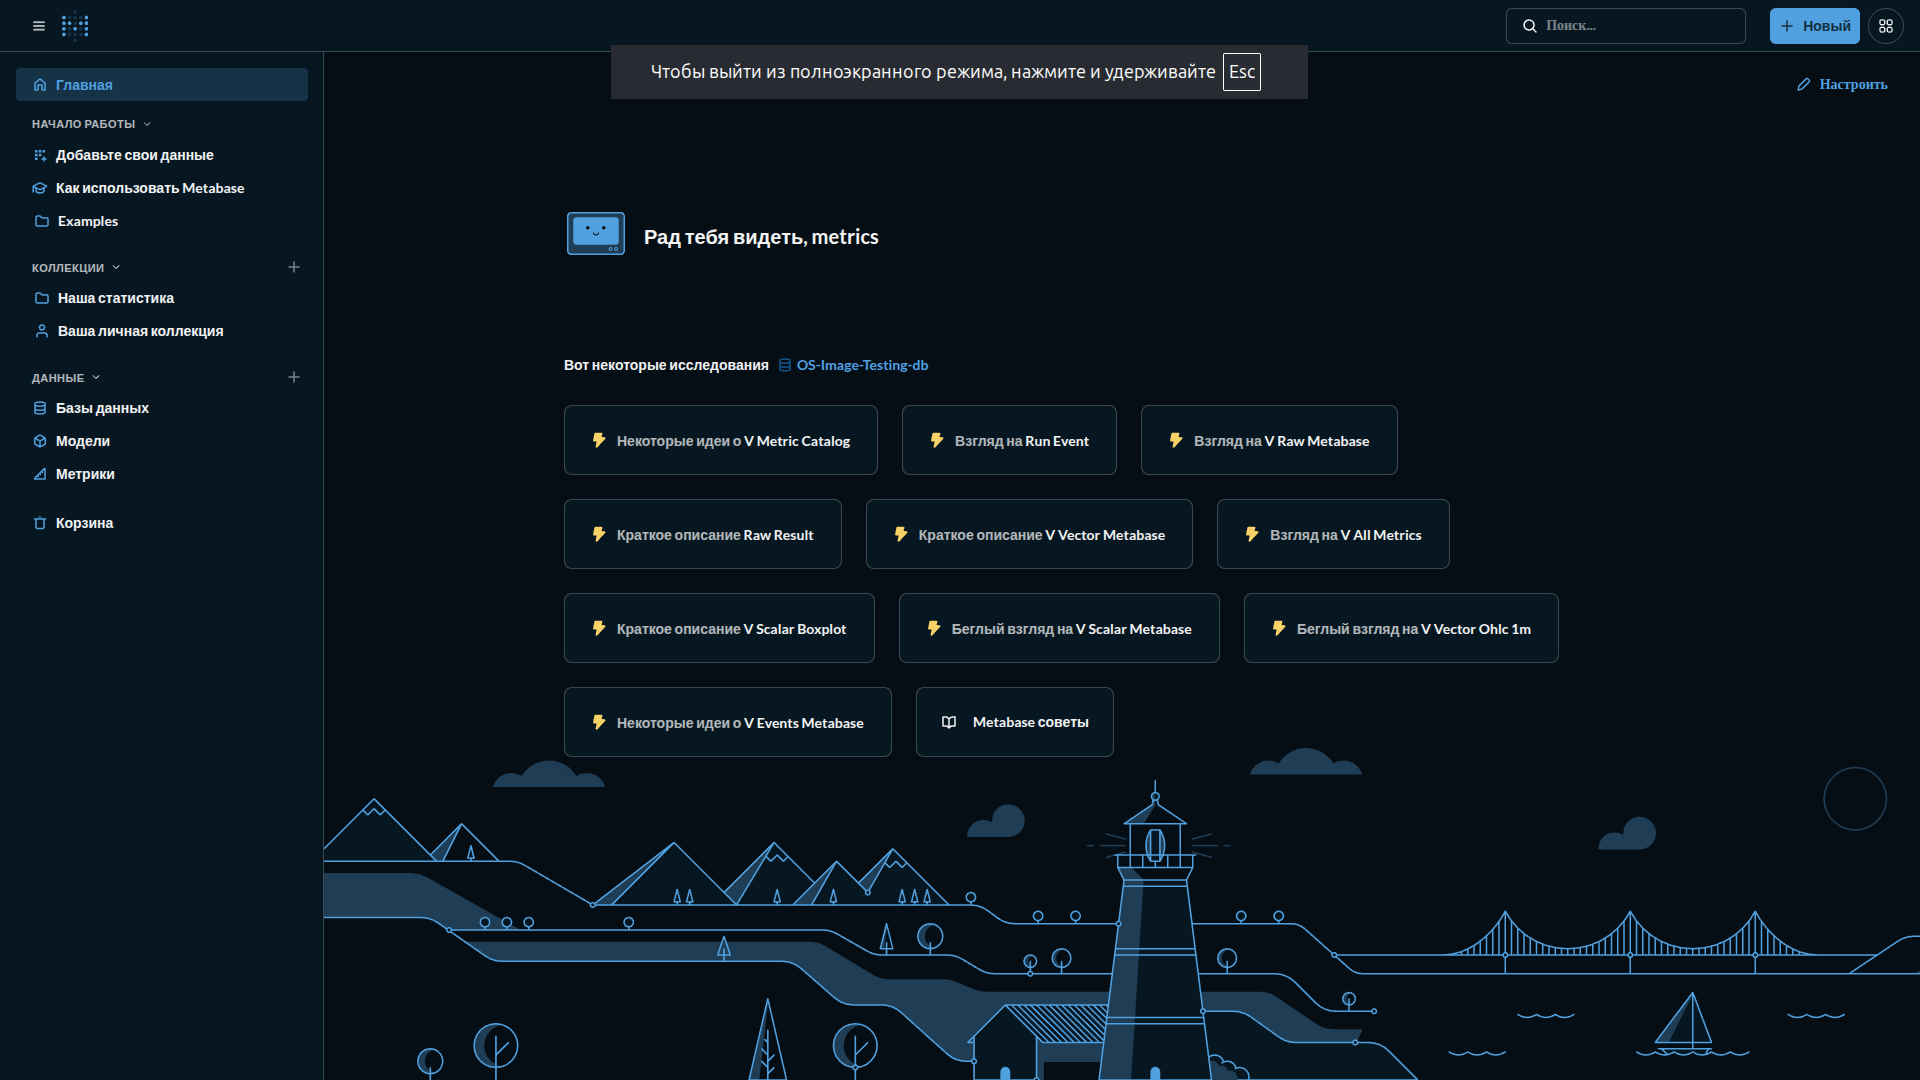
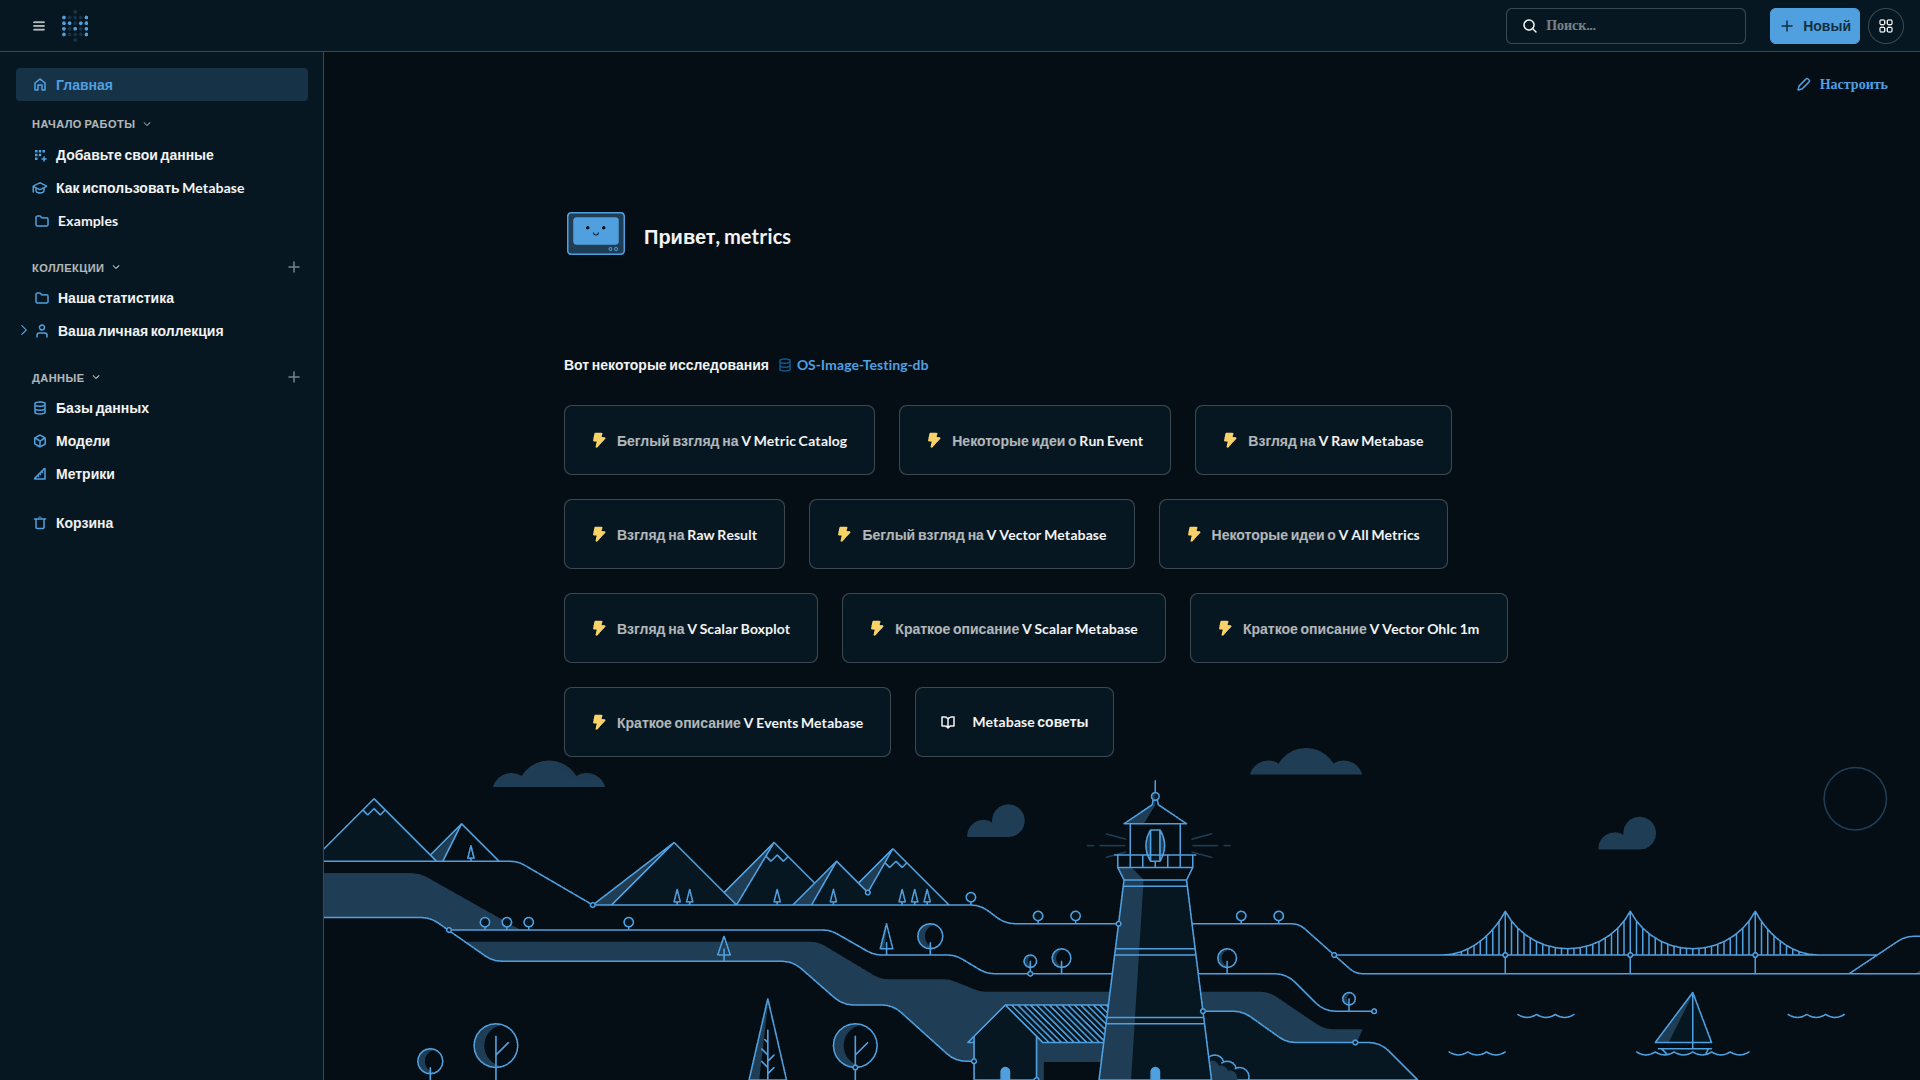
docs: metabase dashboards guide improved

diff --git a/docs/guides/metabase-dashboard-creating-guide.md b/docs/guides/metabase-dashboard-creating-guide.md
@@ -1,6 +1,7 @@
 # Создание дашбордов
 
-После поднятия базы данных контейнеров для metabase для создания дашбордов необходимо:
+Отображение данных в Metabase происходит на **дашбордах** в виде размещенных на них **карточках**.
+После поднятия базы данных и контейнеров для metabase для создания дашбордов необходимо:
 
 - Зарегистрироваться или авторизироваться в metabase (локальная учётная запись);
 - Создать запросы для карточек к базе данных и настроить их визуализацию;
@@ -13,7 +14,7 @@
 При первом открытии metabase в браузере (по умолчанию, `localhost:3000`) открывается окно начала работы.
 ![Начальное окно](../images/metabase-start-window.png)
 
-Для продолжения работы требуется нажать кнопку "Начнем". Дополнительные сведения доступны в [документации Metabase](https://www.metabase.com/docs/v0.59/configuring-metabase/setting-up-metabase.html).
+Для продолжения работы требуется нажать кнопку `Начнем`. Дополнительные сведения доступны в [документации Metabase](https://www.metabase.com/docs/v0.59/configuring-metabase/setting-up-metabase.html).
 
 Далее необходимо настроить:
 - Данные пользователя metabase. Для примера, создадим пользователя metrics и компанию os-image-testing.
@@ -63,9 +64,9 @@
 **Настройка переменных в запросе**
 
 - При создании запроса с переменными для фильтрации указывайте переменные как специальный тип переменных metabase - `фильтр поля`. Это позволяет metabase определять значения для фильтрации по уникальным именам в базе.
-- Для этого в тексте запроса укажите поле, по которому будет проводиться фильтрация, в двойных фигурных скобках: {{variable}}. Используйте фильтр поля везде, кроме отдельных случаев (например, настройки переменной выбора времени).
+- Для этого в тексте запроса укажите поле, по которому будет проводиться фильтрация, в двойных фигурных скобках: `{{variable}}`. Используйте фильтр поля везде, кроме отдельных случаев (например, настройки переменной выбора времени).
 - Для настройки переменных в меню SQL-запроса откройте справа панель "Переменные и параметры": `{x} (Переменные)`
-- Для каждой переменной укажите тип переменной и настройте другие её параметры. Для создания переменной "Фильтр поля" укажите: 
+- Для каждой переменной укажите тип переменной и настройте другие её параметры. Для создания переменной типа "Фильтр поля" укажите: 
   - тип переменной - Фильтр поля; 
   - таблицу/view в базе, к которой обращается запрос; 
   - поле, по которому будет производиться фильтрация.
@@ -121,10 +122,11 @@
 - Нажмите на кнопку `Готово` справа снизу.
 ![alt text](../images/metabase-set-filter.png)
 
-### Сохранение дашборда
+### Сохранение и изменение дашборда
 
 Для сохранения изменений в панели сверху нажмите кнопку `Сохранить`.
-
+- Для изменения дашборда в дальнейшем на окне дашборда в панели сверху нажмите на значок карандаша `Изменить дашборд`. 
+- Для добавления новых карточек (запросов) в окне редактирования дашборда в панели сверху нажмите `+ (Добавить запросы)`.
 
 ## Примечания
 